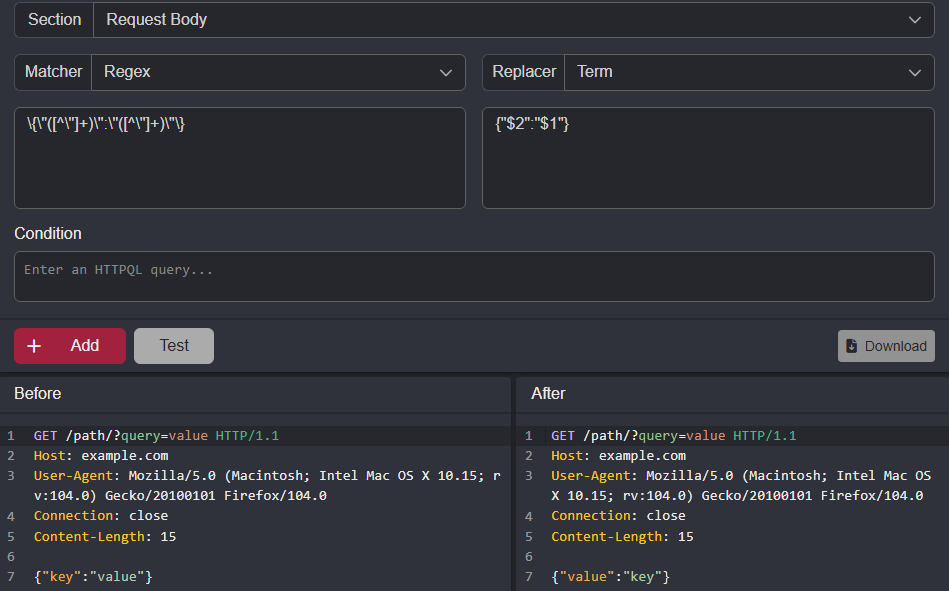
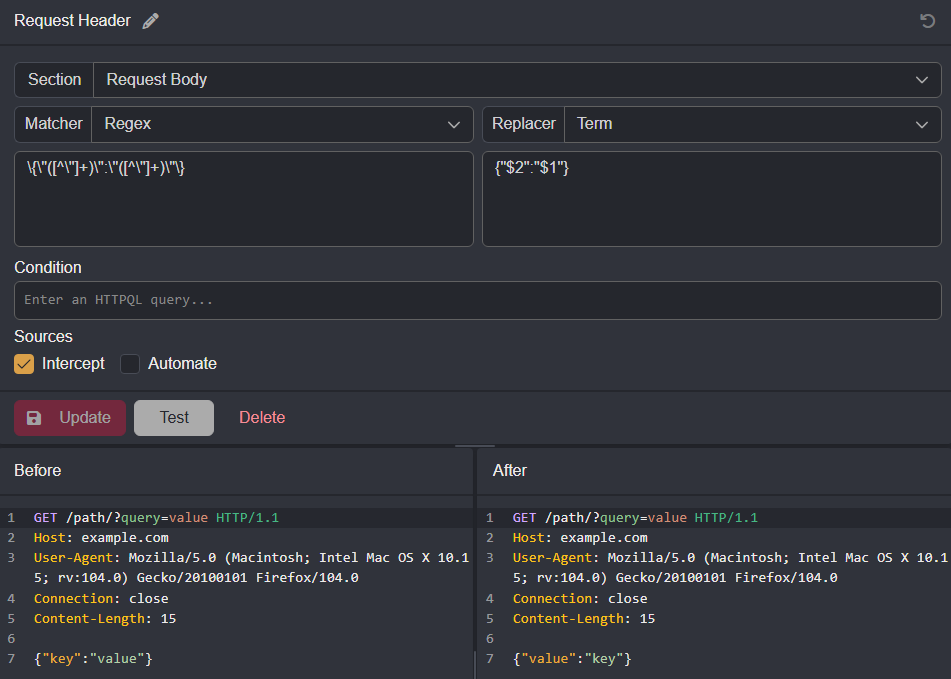
Selecting a Traffic Source M&R Guide + update images

diff --git a/.vitepress/sidebars/guides.ts b/.vitepress/sidebars/guides.ts
@@ -219,6 +219,10 @@ export const guidesSidebar: DefaultTheme.SidebarItem[] = [
     text: "Match & Replace",
     items: [
       {
+        text: "Selecting a Traffic Source",
+        link: "/guides/match_replace_sources",
+      },
+      {
         text: "Adding a Header",
         link: "/guides/match_replace_header",
       },

diff --git a/src/guides/match_replace_testing.md b/src/guides/match_replace_testing.md
@@ -10,6 +10,6 @@ If your rule is not working, ensure you're viewing and matching data as it is ac
 
 To ensure your rules achieve the desired outcome, you can test them against content inside the `Before` editor by **clicking** on the `Test` button.
 
-<img alt="Testing a rule." src="/_images/match_replace_testing.png" center/>
+<img alt="Testing a rule." src="/_images/match_replace_capturing.png" center/>
 
 Applied rules are listed in the `Active Rules` list and will be applied in top to bottom order. To avoid collisions between rules, you can rearrange their order by **left-clicking**, **dragging**, **holding**, and **releasing** a rule either above or below other rules in the list.

diff --git a/src/guides/match_replace_sources.md b/src/guides/match_replace_sources.md
@@ -1,0 +1,17 @@
+# Selecting a Traffic Source
+
+The options available under the Sources section of the Match & Replace interface determine the traffic the rules will apply to.
+
+::: tip
+To target specific requests/responses, add [HTTPQL query statements](/guides/filters_httpql.md) in the `Condition` input field.
+:::
+
+- To apply a rule to all proxied requests/responses, **click** on the `Intercept` checkbox.
+
+- To apply a rule to all requests generated by Automate sessions, **click** on the `Automate` checkbox.
+
+<img alt="Source options." src="/_images/match_replace_sources.png" center/>
+
+::: warning NOTE
+The `Automate` option is not available to response fields.
+:::

diff --git a/src/guides/match_replace_encoding.md b/src/guides/match_replace_encoding.md
@@ -18,7 +18,7 @@ Then, select the `Workflow` option from the `Replacer` drop-down menu and select
 
 <img alt="The drop-down menu encoding options." src="/_images/match_replace_encoding.png" center/>
 
-**Click** on the `+ Add` button to add the rule to the Default Collection.
+Select the traffic source/s and **click** on the `+ Add` button to add the rule to the Default Collection.
 
 ::: tip
 Give rules descriptive names for quick identification of their purpose.

diff --git a/src/guides/match_replace_header.md b/src/guides/match_replace_header.md
@@ -12,7 +12,7 @@ Next, **click** on the `Add` button and type the header key name and its value i
 
 <img alt="Adding and naming the header." src="/_images/match_replace_header_add.png" center/>
 
-**Click** on the `+ Add` button to add the rule to the Default Collection.
+Select the traffic source/s and **click** on the `+ Add` button to add the rule to the Default Collection.
 
 ::: tip
 Give rules descriptive names for quick identification of their purpose.
